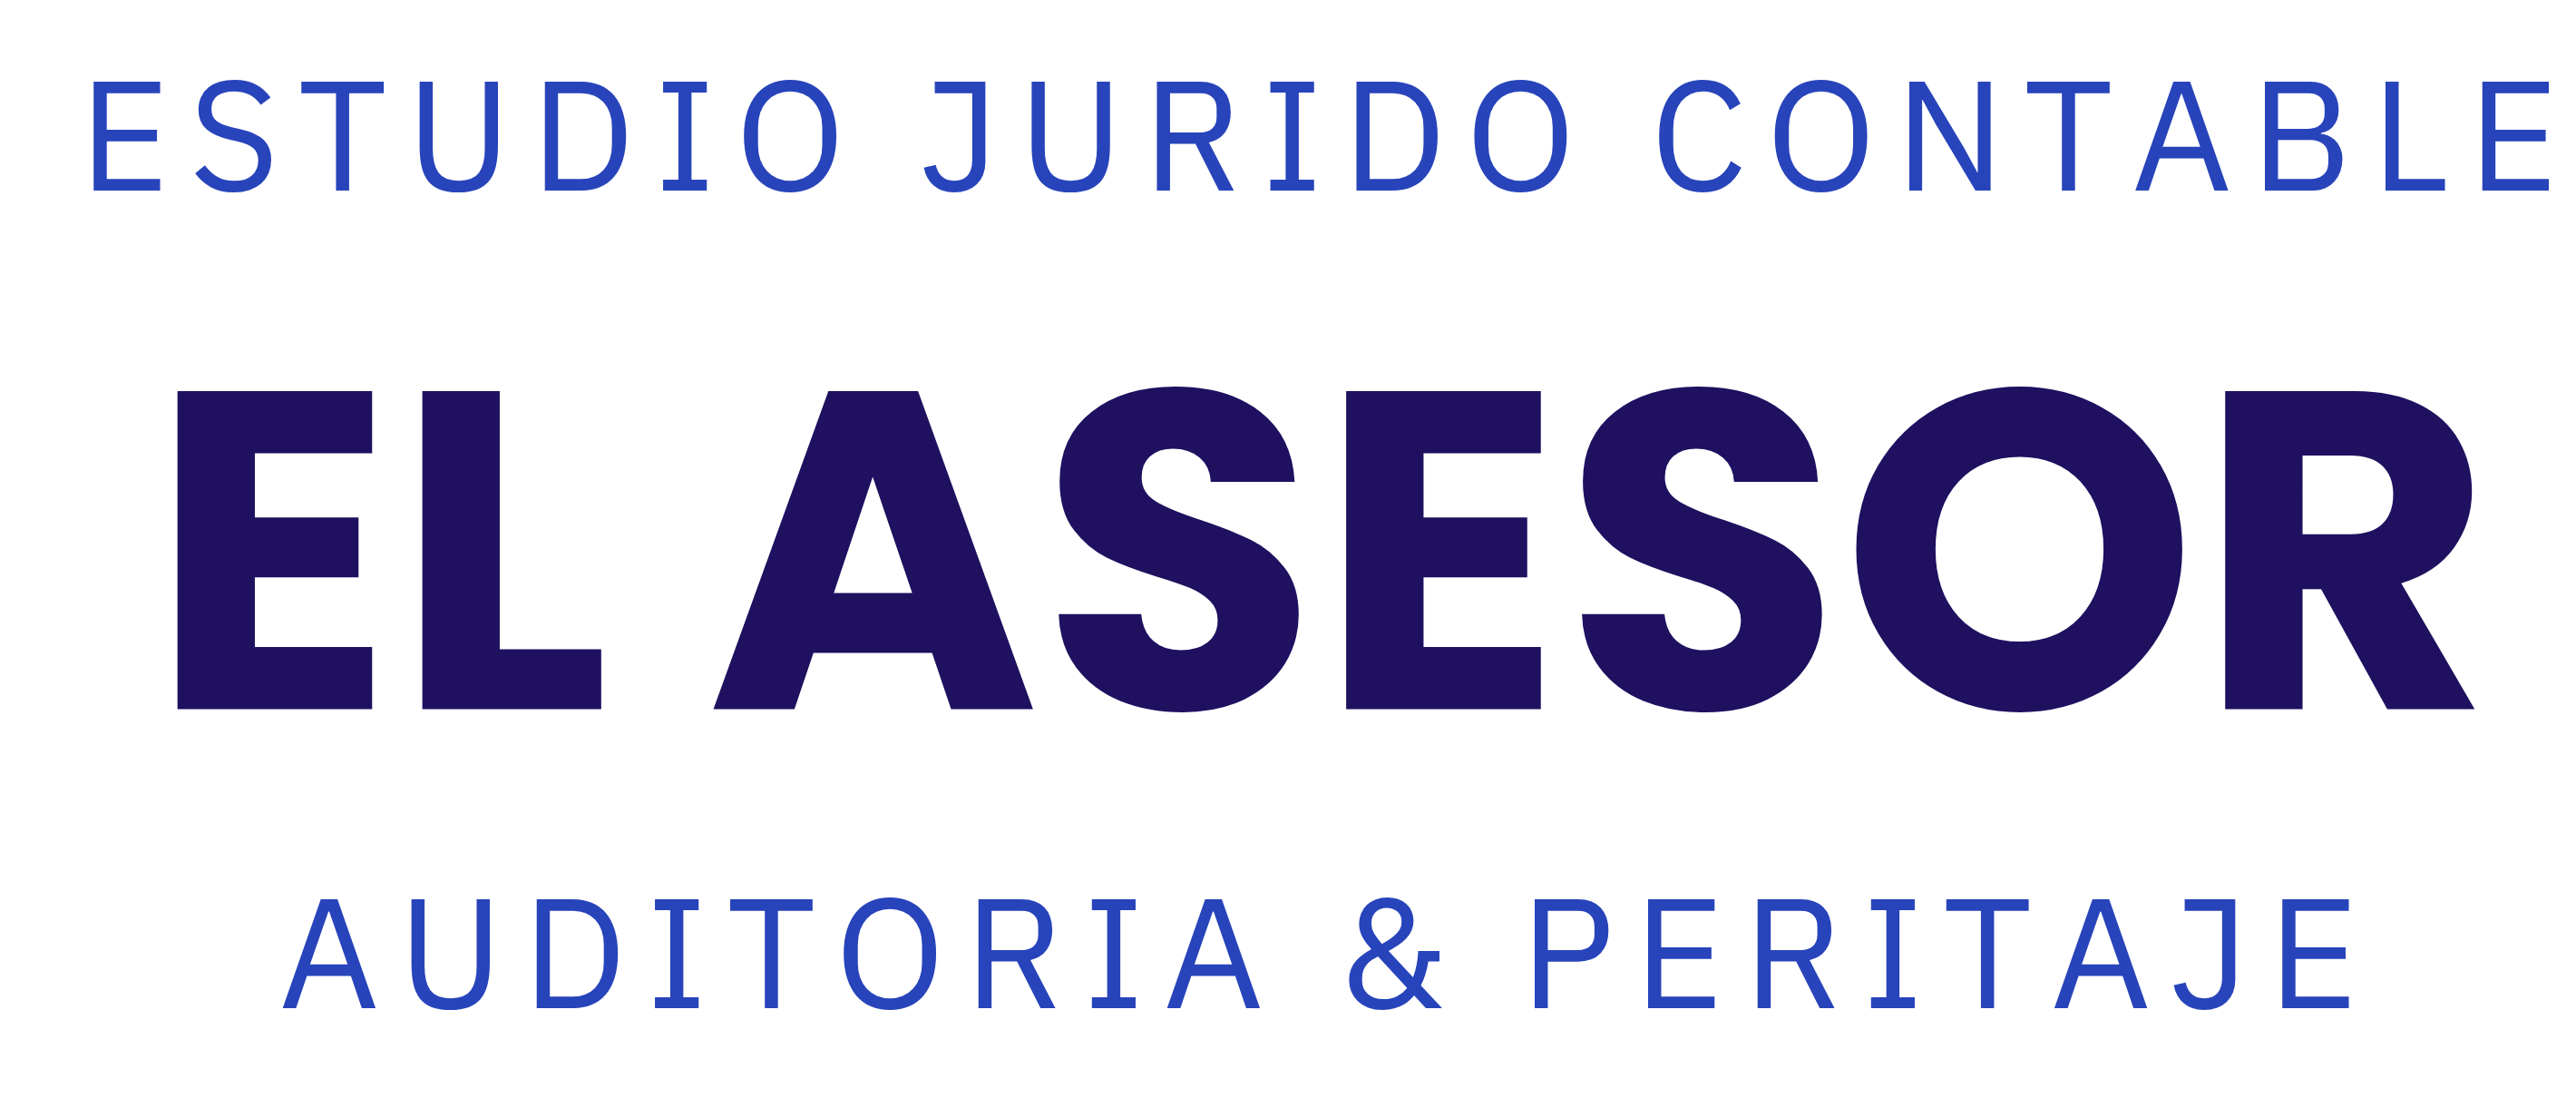
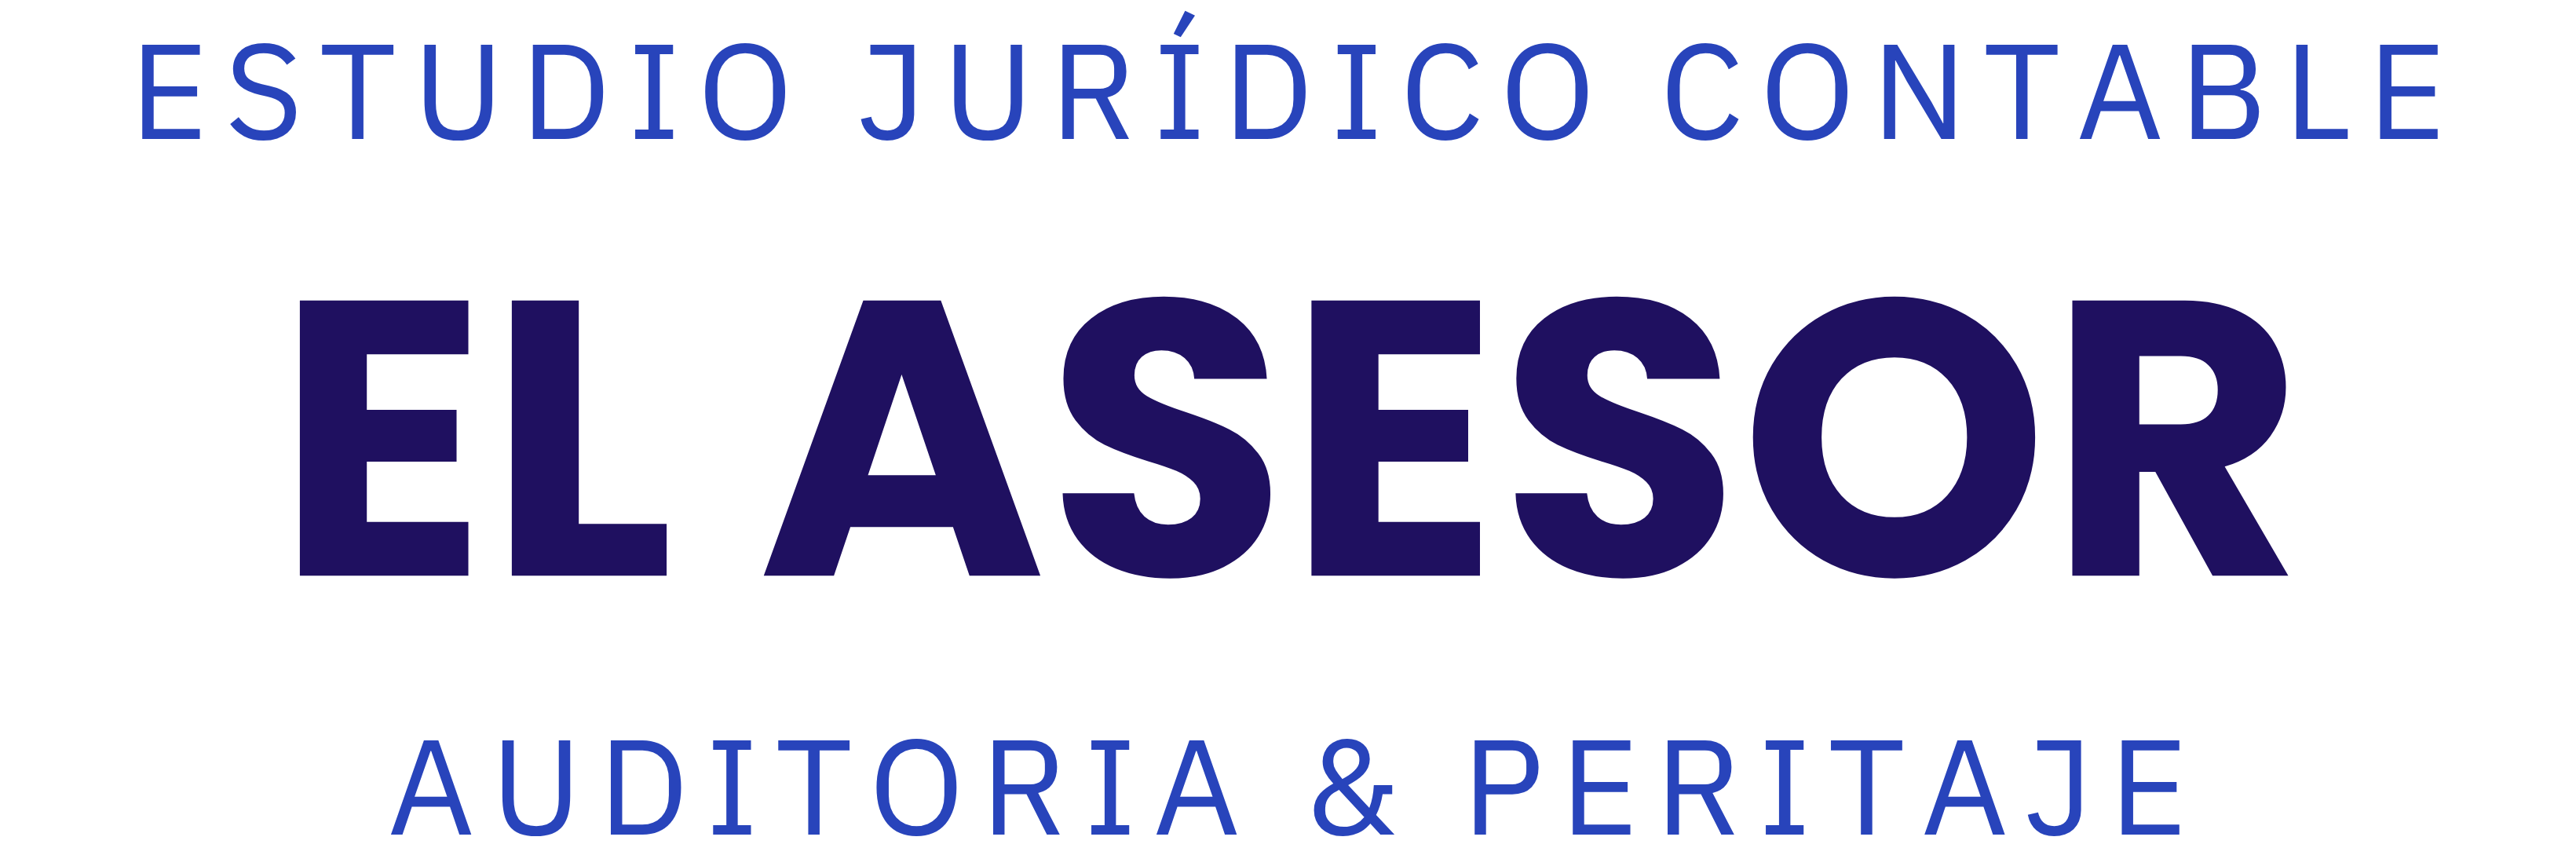
Fix: Solucion de los errores ortograficos

diff --git a/src/index.css b/src/index.css
@@ -27,3 +27,105 @@ body {
 ::-webkit-scrollbar-thumb:hover {
   background: var(--color-cta);
 }
+
+/* --- Premium Custom Animations --- */
+
+/* Shimmer (Brillo metálico deslizante) */
+@keyframes shimmer {
+  0% {
+    transform: translateX(-150%) skewX(-25deg);
+  }
+  100% {
+    transform: translateX(150%) skewX(-25deg);
+  }
+}
+
+.animate-shimmer {
+  position: relative;
+  overflow: hidden;
+}
+
+.animate-shimmer::after {
+  content: '';
+  position: absolute;
+  top: 0;
+  left: 0;
+  width: 150%;
+  height: 100%;
+  background: linear-gradient(
+    90deg,
+    rgba(255, 255, 255, 0) 0%,
+    rgba(255, 255, 255, 0.45) 50%,
+    rgba(255, 255, 255, 0) 100%
+  );
+  transform: translateX(-150%) skewX(-25deg);
+  animation: shimmer 3.5s infinite ease-in-out;
+  pointer-events: none;
+}
+
+/* Radar Pulse (Ondas concéntricas expansivas) */
+@keyframes radar-pulse {
+  0% {
+    transform: scale(0.95);
+    opacity: 0.85;
+  }
+  50% {
+    opacity: 0.4;
+  }
+  100% {
+    transform: scale(2.0);
+    opacity: 0;
+  }
+}
+
+.radar-ring {
+  position: absolute;
+  border-radius: 50%;
+  animation: radar-pulse 2.2s cubic-bezier(0.25, 0, 0, 1) infinite;
+  pointer-events: none;
+}
+
+.radar-ring-1 {
+  animation-delay: 0s;
+}
+
+.radar-ring-2 {
+  animation-delay: 0.7s;
+}
+
+.radar-ring-3 {
+  animation-delay: 1.4s;
+}
+
+/* Phone Shake (Vibración sutil periódica para llamar la atención) */
+@keyframes periodic-shake {
+  0%, 85%, 100% {
+    transform: rotate(0deg) scale(1);
+  }
+  87% {
+    transform: rotate(-15deg) scale(1.1);
+  }
+  89% {
+    transform: rotate(12deg) scale(1.1);
+  }
+  91% {
+    transform: rotate(-12deg) scale(1.1);
+  }
+  93% {
+    transform: rotate(10deg) scale(1.1);
+  }
+  95% {
+    transform: rotate(-8deg) scale(1.1);
+  }
+  97% {
+    transform: rotate(4deg) scale(1.05);
+  }
+  99% {
+    transform: rotate(0deg) scale(1.02);
+  }
+}
+
+.animate-phone-shake {
+  animation: periodic-shake 4.5s ease-in-out infinite;
+}
+

diff --git a/src/components/FloatingWidgets.jsx b/src/components/FloatingWidgets.jsx
@@ -1,35 +1,63 @@
 import React from 'react';
-
 import { motion } from 'framer-motion';
 
 const FloatingWidgets = () => {
   return (
     <div className="fixed bottom-6 right-6 z-50 flex flex-col items-end gap-4">
-      <div className="flex items-center gap-3 rounded-3xl bg-white/95 border border-slate-200 shadow-xl p-3 pr-4 text-slate-900 max-w-[20rem] md:max-w-[22rem]">
-        <div className="flex-shrink-0">
-          <a
+      <div className="flex items-center gap-3.5 rounded-[22px] bg-white/95 border border-slate-200/80 shadow-[0_15px_35px_rgba(0,0,0,0.1)] p-3 pr-4 text-slate-900 max-w-[20rem] md:max-w-[22rem] backdrop-blur-md">
+        <div className="flex-shrink-0 relative">
+          <motion.a
             href="tel:[phone redacted]"
             aria-label="Llamar a El Asesor"
-            className="w-12 h-12 rounded-full bg-[#1A1A5A] flex items-center justify-center text-white shadow-md hover:bg-[#3B59DA] transition-colors"
+            whileHover={{ scale: 1.12, boxShadow: "0 0 20px rgba(59, 89, 218, 0.4)" }}
+            whileTap={{ scale: 0.95 }}
+            className="relative w-12 h-12 rounded-full bg-[#1A1A5A] flex items-center justify-center text-white shadow-md transition-colors"
           >
-            <svg xmlns="http://www.w3.org/2000/svg" viewBox="0 0 24 24" fill="currentColor" className="w-6 h-6">
-              <path d="M6.62 10.79a15.053 15.053 0 0 0 6.59 6.59l2.2-2.2a1 1 0 0 1 1.01-.24c1.12.37 2.33.57 3.57.57a1 1 0 0 1 1 1V20a1 1 0 0 1-1 1C10.07 21 3 13.93 3 4a1 1 0 0 1 1-1h2.5a1 1 0 0 1 1 1c0 1.24.2 2.45.57 3.57a1 1 0 0 1-.24 1.01l-2.2 2.21Z" />
-            </svg>
-          </a>
+            {/* Concentric radar ripples in company color */}
+            <span className="radar-ring radar-ring-1 absolute inset-0 bg-[#3B59DA]/45 rounded-full"></span>
+            <span className="radar-ring radar-ring-2 absolute inset-0 bg-[#3B59DA]/25 rounded-full"></span>
+            <span className="radar-ring radar-ring-3 absolute inset-0 bg-[#3B59DA]/12 rounded-full"></span>
+
+            <span className="relative z-10 animate-phone-shake block">
+              <svg xmlns="http://www.w3.org/2000/svg" viewBox="0 0 24 24" fill="currentColor" className="w-6 h-6">
+                <path d="M6.62 10.79a15.053 15.053 0 0 0 6.59 6.59l2.2-2.2a1 1 0 0 1 1.01-.24c1.12.37 2.33.57 3.57.57a1 1 0 0 1 1 1V20a1 1 0 0 1-1 1C10.07 21 3 13.93 3 4a1 1 0 0 1 1-1h2.5a1 1 0 0 1 1 1c0 1.24.2 2.45.57 3.57a1 1 0 0 1-.24 1.01l-2.2 2.21Z" />
+              </svg>
+            </span>
+          </motion.a>
         </div>
 
         <div className="flex-1">
-          <p className="text-xs uppercase tracking-[0.18em] text-slate-500">Llámanos al</p>
-          <a href="tel:[phone redacted]" className="text-sm font-semibold text-slate-900 hover:text-[#1A1A5A] transition-colors">
+          <div className="flex items-center gap-1.5">
+            {/* Pulsing online status indicator */}
+            <span className="relative flex h-2 w-2">
+              <span className="animate-ping absolute inline-flex h-full w-full rounded-full bg-emerald-400 opacity-75"></span>
+              <span className="relative inline-flex rounded-full h-2 w-2 bg-emerald-500"></span>
+            </span>
+            <p className="text-[10px] uppercase tracking-[0.18em] text-slate-500 font-semibold leading-none">Llámanos al</p>
+          </div>
+          <a 
+            href="tel:[phone redacted]" 
+            className="text-[15px] font-bold text-slate-900 hover:text-[#3B59DA] transition-colors tracking-wide block mt-0.5"
+          >
             994 715 485
           </a>
         </div>
 
-        <a
+        <motion.a
           href="https://wa.me/51994715485?text=Hola,%20vengo%20de%20su%20sitio%20web%20y%20quisiera%20m%C3%A1s%20informaci%C3%B3n."
           target="_blank"
           rel="noopener noreferrer"
-          className="w-14 h-14 rounded-full flex items-center justify-center text-white bg-[#25D366] shadow-lg transition-all duration-300 focus:outline-none focus:ring-4 focus:ring-[#25D366]/50"
+          whileHover={{ scale: 1.12, rotate: 5, boxShadow: "0 0 25px rgba(37, 211, 102, 0.5)" }}
+          whileTap={{ scale: 0.95 }}
+          animate={{
+            scale: [1, 1.04, 1],
+          }}
+          transition={{
+            repeat: Infinity,
+            duration: 3,
+            ease: "easeInOut"
+          }}
+          className="w-14 h-14 rounded-full flex items-center justify-center text-white bg-[#25D366] shadow-lg focus:outline-none"
           aria-label="Contactar por WhatsApp"
         >
           <svg
@@ -40,7 +68,7 @@ const FloatingWidgets = () => {
           >
             <path d="M17.472 14.382c-.297-.149-1.758-.867-2.03-.967-.273-.099-.471-.148-.67.15-.197.297-.767.966-.94 1.164-.173.199-.347.223-.644.075-.297-.15-1.255-.463-2.39-1.475-.883-.788-1.48-1.761-1.653-2.059-.173-.297-.018-.458.13-.606.134-.133.298-.347.446-.52.149-.174.198-.298.298-.497.099-.198.05-.371-.025-.52-.075-.149-.669-1.612-.916-2.207-.242-.579-.487-.5-.669-.51a12.8 12.8 0 0 0-.57-.01c-.198 0-.52.074-.792.372-.272.297-1.04 1.016-1.04 2.479 0 1.462 1.065 2.875 1.213 3.074.149.198 2.096 3.2 5.077 4.487.709.306 1.262.489 1.694.625.712.227 1.36.195 1.871.118.571-.085 1.758-.719 2.006-1.413.248-.694.248-1.289.173-1.413-.074-.124-.272-.198-.57-.347m-5.421 7.403h-.004a9.87 9.87 0 0 1-5.031-1.378l-.361-.214-3.741.982.998-3.648-.235-.374a9.86 9.86 0 0 1-1.51-5.26c.001-5.45 4.436-9.884 9.888-9.884 2.64 0 5.122 1.03 6.988 2.898a9.825 9.825 0 0 1 2.893 6.994c-.003 5.45-4.437 9.884-9.885 9.884m8.413-18.297A11.815 11.815 0 0 0 12.05 0C5.495 0 .16 5.335.157 11.892c0 2.096.547 4.142 1.588 5.945L.057 24l6.305-1.654a11.882 11.882 0 0 0 5.683 1.448h.005c6.554 0 11.89-5.335 11.893-11.893a11.821 11.821 0 0 0-3.48-8.413Z" />
           </svg>
-        </a>
+        </motion.a>
       </div>
     </div>
   );

diff --git a/src/pages/Inicio.jsx b/src/pages/Inicio.jsx
@@ -367,9 +367,17 @@ const DownloadBrochure = () => {
               href="/Brochure 2026.pdf"
               download="Brochure 2026.pdf"
               onClick={handleDownload}
-              whileHover={{ scale: 1.05 }}
-              whileTap={{ scale: 0.95 }}
-              className={`${isDownloading ? 'bg-[#10B981] shadow-[0_0_30px_rgba(16,185,129,0.5)]' : 'bg-cta hover:bg-[#2E48BA] hover:shadow-[0_0_20px_rgba(59,89,218,0.4)]'} text-white font-bold py-5 px-8 rounded-2xl shadow-xl flex items-center justify-center gap-4 w-full sm:w-[300px] focus:ring-2 focus:ring-offset-2 focus:ring-cta outline-none transition-all duration-300`}
+              whileHover={{ 
+                scale: 1.05, 
+                boxShadow: "0 0 35px rgba(59, 89, 218, 0.7)",
+                borderColor: "rgba(255, 255, 255, 0.5)"
+              }}
+              whileTap={{ scale: 0.97 }}
+              className={`${
+                isDownloading 
+                  ? 'bg-[#10B981] border-[#10B981] shadow-[0_0_30px_rgba(16,185,129,0.6)]' 
+                  : 'bg-gradient-to-r from-[#1A1A5A] via-[#3B59DA] to-[#1A1A5A] bg-[length:200%_auto] hover:bg-right border-white/20 animate-shimmer'
+              } text-white font-bold py-5 px-8 rounded-2xl border shadow-xl flex items-center justify-center gap-4 w-full sm:w-[320px] focus:ring-2 focus:ring-offset-2 focus:ring-[#3B59DA] outline-none transition-all duration-500`}
               aria-label="Descargar Brochure PDF"
             >
               {isDownloading ? (
@@ -377,14 +385,20 @@ const DownloadBrochure = () => {
                   <CheckCircle2 className="w-7 h-7 shrink-0 text-white drop-shadow-md" />
                 </motion.div>
               ) : (
-                <Download className="w-6 h-6 shrink-0" />
+                <motion.div
+                  animate={{ y: [0, -3, 0] }}
+                  transition={{ repeat: Infinity, duration: 1.6, ease: "easeInOut" }}
+                  className="flex-shrink-0"
+                >
+                  <Download className="w-6 h-6 shrink-0" />
+                </motion.div>
               )}
               <div className="text-left flex flex-col justify-center">
-                <span className="leading-tight text-[15px] block transition-all duration-300">
+                <span className="leading-tight text-[15px] block font-extrabold tracking-wider transition-all duration-300">
                   {isDownloading ? '¡DESCARGA INICIADA!' : 'DESCARGAR BROCHURE'}
                 </span>
-                <span className="leading-tight text-[11px] opacity-80 tracking-wider mt-0.5 block transition-all duration-300">
-                  {isDownloading ? 'GRACIAS POR SU INTERÉS' : '(VERSIÓN PDF)'}
+                <span className="leading-tight text-[11px] font-medium opacity-80 tracking-widest mt-0.5 block transition-all duration-300">
+                  {isDownloading ? 'GRACIAS POR SU INTERÉS' : 'PRESENTACIÓN CORPORATIVA'}
                 </span>
               </div>
             </motion.a>

diff --git a/src/pages/Nosotros.jsx b/src/pages/Nosotros.jsx
@@ -65,7 +65,7 @@ const Nosotros = () => {
       name: "Dr. Cesar Holguino H.",
       role: "Abogado Penalista",
       desc: "Ex fiscal de Puerto Maldonado, Chalhuanca y Challhuahuacho.",
-      email: "[email redacted]",
+      email: "[EMAIL_ADDRESS]",
       image: imgCesar,
       socials: { fb: '#', linkedin: '#', whatsapp: '[phone redacted]' }
     },
@@ -73,7 +73,7 @@ const Nosotros = () => {
       name: "Dr. Jorge Ayquipa Mendoza",
       role: "Abogado Colegiado",
       desc: "Especialista en procesos laborales y civiles (CAL 32129).",
-      email: "[email redacted]",
+      email: "[EMAIL_ADDRESS]",
       image: imgJorge,
       socials: { fb: '#', linkedin: '#', whatsapp: '[phone redacted]' }
     },
@@ -81,7 +81,7 @@ const Nosotros = () => {
       name: "José André Jaramillo A.",
       role: "Economista Especializado",
       desc: "Especialista en comercio internacional, análisis econométrico y finanzas globales.",
-      email: "[email redacted]",
+      email: "",
       image: imgAndre,
       socials: { fb: '#', linkedin: '#', whatsapp: '[phone redacted]' }
     },
@@ -89,7 +89,7 @@ const Nosotros = () => {
       name: "Dr.H.C. Víctor Aguirre Loaiza",
       role: "Doctor Univ. CIDAE (México)",
       desc: "Autor, ex magistrado del Poder Judicial y docente universitario.",
-      email: "[email redacted]",
+      email: "",
       image: imgVictor,
       socials: { fb: '#', linkedin: '#', whatsapp: '[phone redacted]' }
     },
@@ -97,7 +97,7 @@ const Nosotros = () => {
       name: "Dr. Jaime Marquez Ticona",
       role: "Abogado Colegiado",
       desc: " Abogado colegiado con registro Nro 2290 del colegio de abogados de Apurímac especialista, en derecho penal y minero.",
-      email: "[email redacted]",
+      email: "",
       image: imgNuevo,
       socials: { fb: '#', linkedin: '#', whatsapp: '[phone redacted]' }
     }
@@ -330,10 +330,12 @@ const Nosotros = () => {
                     <svg xmlns="http://www.w3.org/2000/svg" viewBox="0 0 24 24" fill="currentColor" className="w-5 h-5"><path d="M17.472 14.382c-.297-.149-1.758-.867-2.03-.967-.273-.099-.471-.148-.67.15-.197.297-.767.966-.94 1.164-.173.199-.347.223-.644.075-.297-.15-1.255-.463-2.39-1.475-.883-.788-1.48-1.761-1.653-2.059-.173-.297-.018-.458.13-.606.134-.133.298-.347.446-.52.149-.174.198-.298.298-.497.099-.198.05-.371-.025-.52-.075-.149-.669-1.612-.916-2.207-.242-.579-.487-.5-.669-.51a12.8 12.8 0 0 0-.57-.01c-.198 0-.52.074-.792.372-.272.297-1.04 1.016-1.04 2.479 0 1.462 1.065 2.875 1.213 3.074.149.198 2.096 3.2 5.077 4.487.709.306 1.262.489 1.694.625.712.227 1.36.195 1.871.118.571-.085 1.758-.719 2.006-1.413.248-.694.248-1.289.173-1.413-.074-.124-.272-.198-.57-.347m-5.421 7.403h-.004a9.87 9.87 0 0 1-5.031-1.378l-.361-.214-3.741.982.998-3.648-.235-.374a9.86 9.86 0 0 1-1.51-5.26c.001-5.45 4.436-9.884 9.888-9.884 2.64 0 5.122 1.03 6.988 2.898a9.825 9.825 0 0 1 2.893 6.994c-.003 5.45-4.437 9.884-9.885 9.884m8.413-18.297A11.815 11.815 0 0 0 12.05 0C5.495 0 .16 5.335.157 11.892c0 2.096.547 4.142 1.588 5.945L.057 24l6.305-1.654a11.882 11.882 0 0 0 5.683 1.448h.005c6.554 0 11.89-5.335 11.893-11.893a11.821 11.821 0 0 0-3.48-8.413Z" /></svg>
                   </a>
                 </div>
-                <a href={`mailto:${member.email}`} className="flex items-center gap-2 text-gray-400 hover:text-cta transition-colors text-sm font-medium" title={member.email}>
-                  <Mail className="w-5 h-5" />
-                  <span className="hidden sm:inline-block">Email</span>
-                </a>
+                {member.email && (
+                  <a href={`mailto:${member.email}`} className="flex items-center gap-2 text-gray-400 hover:text-cta transition-colors text-sm font-medium" title={member.email}>
+                    <Mail className="w-5 h-5" />
+                    <span className="hidden sm:inline-block">Email</span>
+                  </a>
+                )}
               </div>
             </motion.div>
           ))}

diff --git a/src/pages/Contacto.jsx b/src/pages/Contacto.jsx
@@ -44,10 +44,8 @@ const Contacto = () => {
   const youtubeUrl = import.meta.env.VITE_YOUTUBE || 'https://www.youtube.com/@estudioelasesor';
 
   const emails = [
-    "[email redacted]",
     "[email redacted]",
-    "[email redacted]",
-    "[email redacted]"
+    "[email redacted]"
   ];
 
   const handleSubmit = (e) => {
@@ -262,7 +260,7 @@ const Contacto = () => {
 
                 <motion.div whileFocus={{ scale: 1.01 }} className="transition-transform">
                   <label htmlFor="email" className="block text-sm font-bold text-primary mb-2">Correo Electrónico <span className="text-cta">*</span></label>
-                  <input type="email" id="email" required className="w-full px-4 py-3 rounded-xl border border-gray-200 focus:ring-2 focus:ring-cta focus:border-cta outline-none transition-all bg-bgmain/50 focus:bg-white focus:shadow-[0_0_15px_rgba(212,175,55,0.1)]" placeholder="[email redacted]" />
+                  <input type="email" id="email" required className="w-full px-4 py-3 rounded-xl border border-gray-200 focus:ring-2 focus:ring-cta focus:border-cta outline-none transition-all bg-bgmain/50 focus:bg-white focus:shadow-[0_0_15px_rgba(212,175,55,0.1)]" placeholder="[email redacted]" />
                 </motion.div>
 
                 <motion.div whileFocus={{ scale: 1.01 }} className="transition-transform">

diff --git a/src/components/Footer.jsx b/src/components/Footer.jsx
@@ -8,7 +8,7 @@ import { LocationContext } from '../context/LocationContext';
 
 const Footer = () => {
   const phone = import.meta.env.VITE_PHONE || '[phone redacted]';
-  const email = import.meta.env.VITE_EMAIL || '[email redacted]';
+  const email = import.meta.env.VITE_EMAIL || '[email redacted]';
   const facebookUrl = import.meta.env.VITE_FACEBOOK || 'https://www.facebook.com/profile.php?id=61589281921493';
   const instagramUrl = import.meta.env.VITE_INSTAGRAM || 'https://www.instagram.com/estudioelasesor/';
   const tiktokUrl = import.meta.env.VITE_TIKTOK || 'https://www.tiktok.com/@estudio_elasesor';